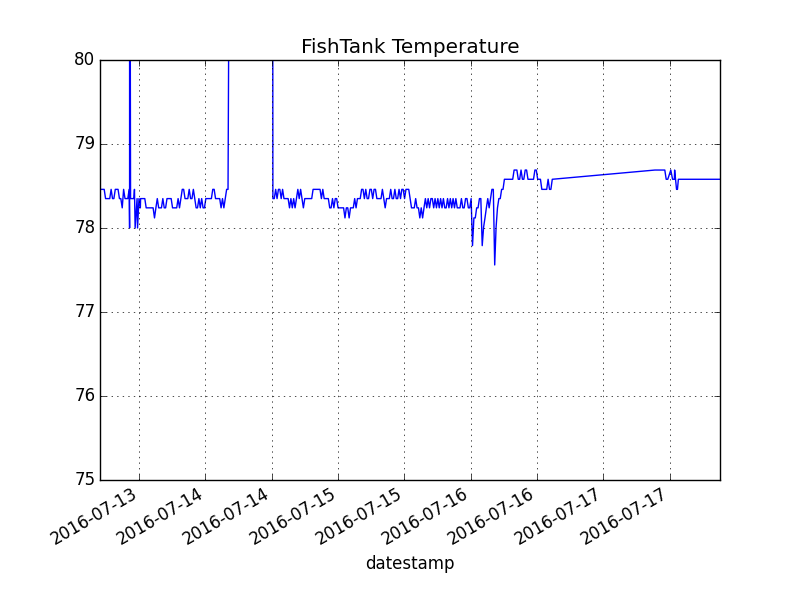
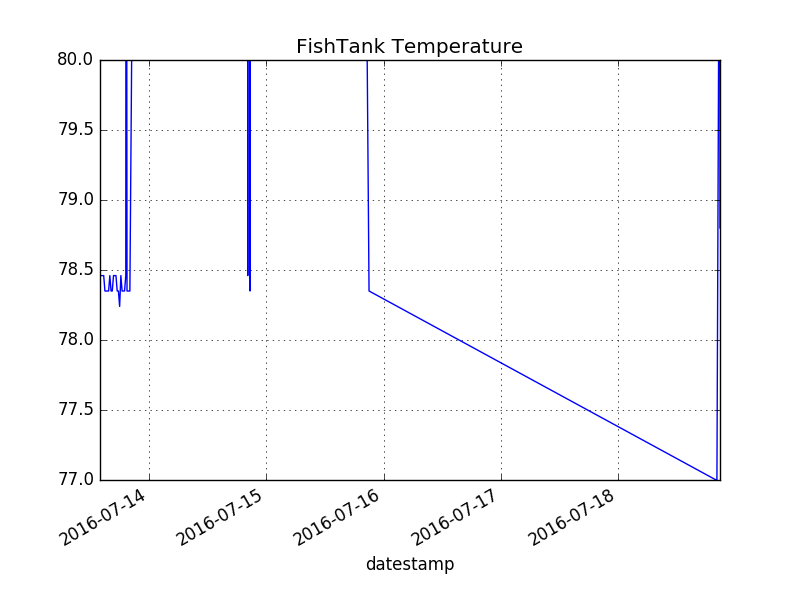
up

diff --git a/fishtank_v2.py b/fishtank_v2.py
@@ -40,6 +40,8 @@ parser = argparse.ArgumentParser(
         description='Fishtank control & data aquisition')
 parser.add_argument('-t', '--test', action='store_true',
                     help='turn on testing environment')
+parser.add_argument('-p', '--plotonly', action='store_true',
+                    help='plot and exit')
 parser.add_argument('-d', '--dir',
                     help='home directory')
 args = parser.parse_args()
@@ -107,9 +109,11 @@ templogger.addHandler(tfh)
 logger.info('***start program')
 logger.info('using directory  ' + dir)
 logger.info('testing = ' + str(args.test))
-
-templogger.info('***start program')
-templogger.info('testing = ' + str(args.test))
+if args.plotonly:
+        logger.info('***plotonly***')
+else:
+        templogger.info('***start program')
+        templogger.info('testing = ' + str(args.test))
 
 
 ###
@@ -137,6 +141,7 @@ if not args.test:
 
 temp_f_hi = 80
 temp_f_lo = 77
+temp_c_test = 26
 
 # prowl vars
 daily = dt.time(12, 00)
@@ -171,7 +176,7 @@ def read_temp():
                 temp_c = float(temp_string) / 1000.0
                 temp_f = temp_c * 9.0 / 5.0 + 32.0
         else:
-                temp_c = 25
+                temp_c = temp_c_test
                 temp_f = temp_c * 9.0 / 5.0 + 32.0
 
         if temp_f > temp_f_hi:
@@ -233,7 +238,8 @@ def tempanalysis():
                 ax.xaxis.set_major_formatter(md.DateFormatter('%Y-%m-%d'))
                 logger.debug('axis format done')
                 fig.savefig('plot.png')
-                #plt.show()
+                if args.plotonly:
+                    plt.show()
                 logger.info('end tempanalysis')
                 break
             except:
@@ -311,5 +317,9 @@ def main():
 
 
 if __name__== '__main__':
-    main()
+    if args.plotonly:
+        tempanalysis()
+    else:
+        main()
     exit()
+
